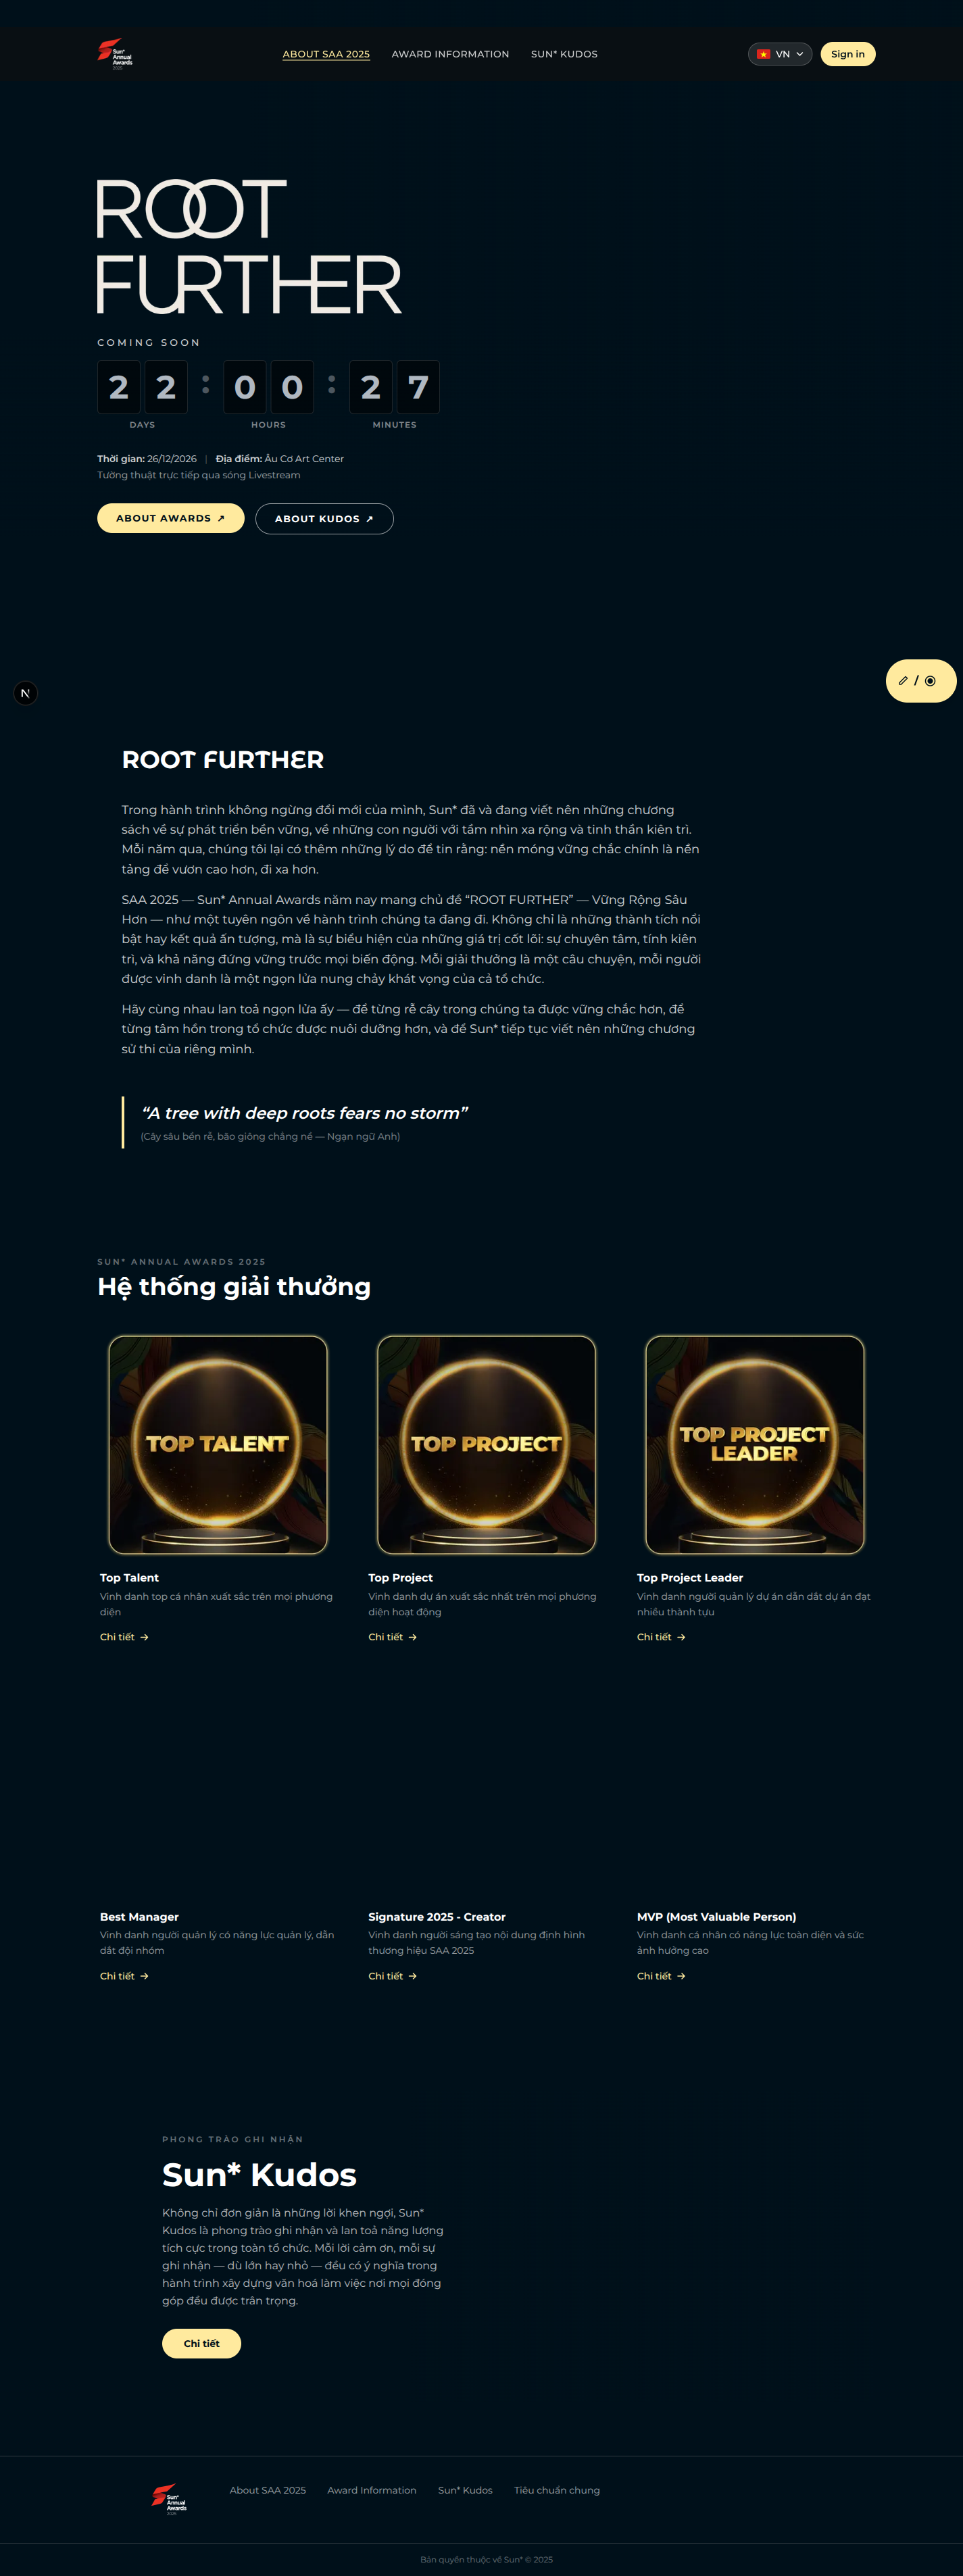
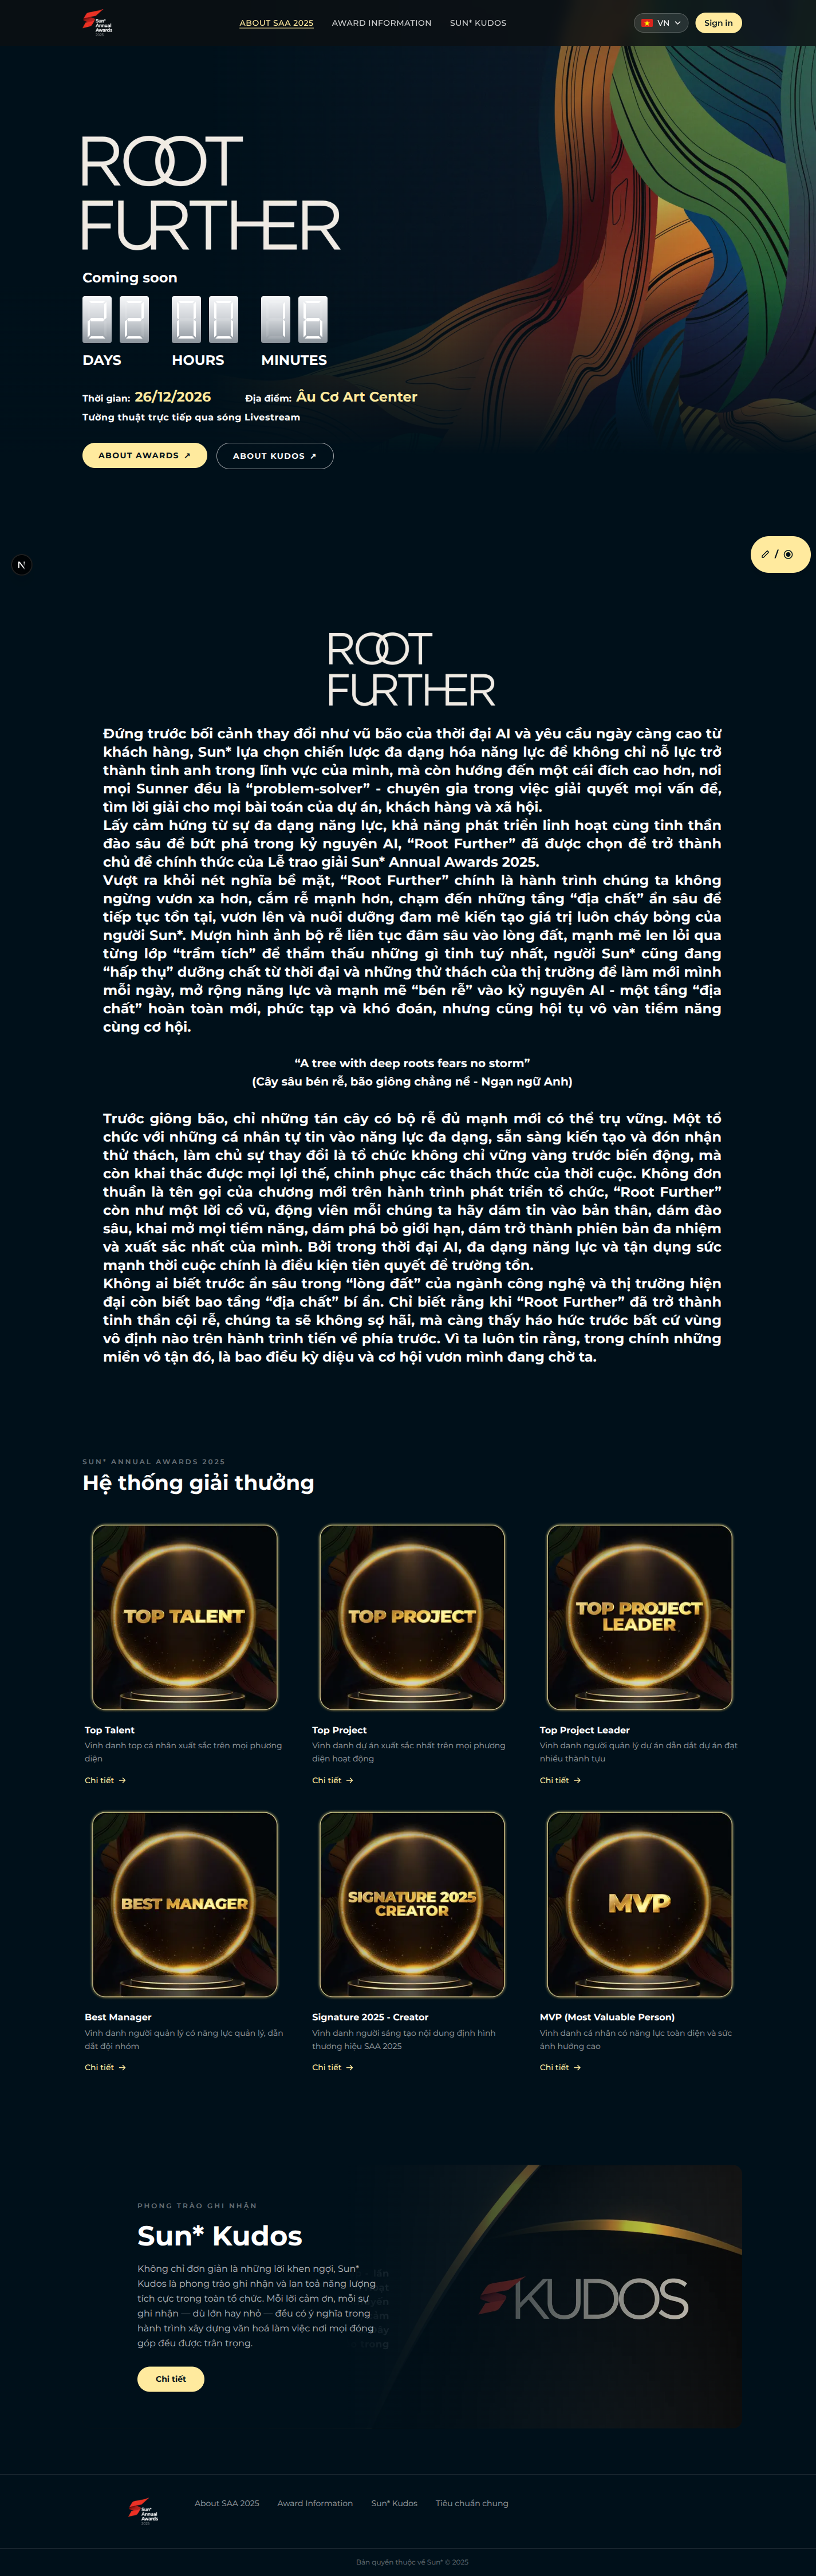
fix(home): align countdown, event info, and explainer with Figma styles
Previous implementation diverged from the Figma design in several places.
Pull the authoritative styles via MoMorph and rebuild each section.

Countdown (countdown-tile.tsx):
- Replace the dark `bg-black/50` box with a silver metallic gradient
  matching the design (white → #C9CDD2 → #8B939B vertical gradient).
- Replace text-rendered digits with inline SVG 7-segment LCD digits
  (segment map for 0-9, 51×82 viewBox per tile per Figma spec).
- Drop the `:` separator between tiles — design uses pure 40px gap.

Labels and "Coming soon" (hero-countdown.tsx):
- "Coming soon" label: text-sm faded → 24px Montserrat 700 white,
  mixed case (was uppercase + tracking-widest faded).
- DAYS / HOURS / MINUTES labels: text-xs faded → 24px Montserrat 700
  white (no opacity reduction).

Event info row (hero-countdown.tsx):
- Switch from single-line "Thời gian: 26/12/2026 | Địa điểm: ..." to
  the Figma's row-of-two-groups layout.
- Label "Thời gian:" / "Địa điểm:" → 16px Montserrat 700 white
  with 0.15px letter-spacing.
- Value "26/12/2026" / "Âu Cơ Art Center" → 24px Montserrat 700 in
  the cream accent #FFEA9E (was white). 60px gap between the two
  groups, matching Figma `Frame 522`.

ROOT FURTHER explainer (root-further-explainer.tsx):
- Replace the `<h2>` text heading with the real ROOT FURTHER image
  asset centered at the top of the card (per Figma `Group 434`).
- Replace placeholder paragraphs with the verbatim Vietnamese copy
[…]

diff --git a/app/page-home/countdown-tile.tsx b/app/page-home/countdown-tile.tsx
@@ -1,30 +1,68 @@
 interface CountdownTileProps {
-  value: string; // always 2 chars, zero-padded
+  value: string;
   label: string;
 }
 
-export default function CountdownTile({ value, label }: CountdownTileProps) {
-  const [d1, d2] = value.split("");
+const SEGMENT_MAP: Record<string, [boolean, boolean, boolean, boolean, boolean, boolean, boolean]> = {
+  "0": [true, true, true, true, true, true, false],
+  "1": [false, true, true, false, false, false, false],
+  "2": [true, true, false, true, true, false, true],
+  "3": [true, true, true, true, false, false, true],
+  "4": [false, true, true, false, false, true, true],
+  "5": [true, false, true, true, false, true, true],
+  "6": [true, false, true, true, true, true, true],
+  "7": [true, true, true, false, false, false, false],
+  "8": [true, true, true, true, true, true, true],
+  "9": [true, true, true, true, false, true, true],
+};
+
+function LcdDigit({ digit }: { digit: string }) {
+  const [a, b, c, d, e, f, g] = SEGMENT_MAP[digit] ?? SEGMENT_MAP["0"];
+  const ON = "#FFFFFF";
+  const OFF = "rgba(255,255,255,0.10)";
 
   return (
-    <div className="flex flex-col items-center gap-2">
-      <div className="flex gap-1.5">
-        {[d1, d2].map((digit, idx) => (
-          <div
-            key={idx}
-            className="flex items-center justify-center w-14 h-16 md:w-16 md:h-20 rounded-md"
-            style={{ background: "rgba(0,0,0,0.5)", border: "1px solid rgba(255,255,255,0.12)" }}
-          >
-            <span
-              className="text-4xl md:text-5xl font-bold tabular-nums leading-none"
-              style={{ color: "#B0B8C1", fontFamily: "var(--font-montserrat), monospace" }}
-            >
-              {digit ?? "0"}
-            </span>
-          </div>
-        ))}
+    <svg viewBox="0 0 51 82" xmlns="http://www.w3.org/2000/svg" aria-hidden="true" className="block h-full w-full">
+      <defs>
+        <linearGradient id="lcdBg" x1="0" y1="0" x2="0" y2="1">
+          <stop offset="0%" stopColor="#F7F8FA" />
+          <stop offset="55%" stopColor="#C9CDD2" />
+          <stop offset="100%" stopColor="#8B939B" />
+        </linearGradient>
+      </defs>
+      <rect x="0" y="0" width="51" height="82" rx="4" fill="url(#lcdBg)" />
+      {/* segment a — top horizontal */}
+      <polygon points="11,8 40,8 36,12 15,12" fill={a ? ON : OFF} />
+      {/* segment b — top right vertical */}
+      <polygon points="42,10 42,38 38,41 38,14" fill={b ? ON : OFF} />
+      {/* segment c — bottom right vertical */}
+      <polygon points="42,44 42,72 38,68 38,41" fill={c ? ON : OFF} />
+      {/* segment d — bottom horizontal */}
+      <polygon points="11,74 40,74 36,70 15,70" fill={d ? ON : OFF} />
+      {/* segment e — bottom left vertical */}
+      <polygon points="9,44 9,72 13,68 13,41" fill={e ? ON : OFF} />
+      {/* segment f — top left vertical */}
+      <polygon points="9,10 9,38 13,41 13,14" fill={f ? ON : OFF} />
+      {/* segment g — middle horizontal */}
+      <polygon points="13,41 15,38 36,38 38,41 36,44 15,44" fill={g ? ON : OFF} />
+    </svg>
+  );
+}
+
+export default function CountdownTile({ value, label }: CountdownTileProps) {
+  const [d1, d2] = value.padStart(2, "0").split("");
+
+  return (
+    <div className="flex flex-col items-start gap-[14px]">
+      <div className="flex items-center gap-[14px]">
+        <div className="h-[82px] w-[51px]">
+          <LcdDigit digit={d1 ?? "0"} />
+        </div>
+        <div className="h-[82px] w-[51px]">
+          <LcdDigit digit={d2 ?? "0"} />
+        </div>
       </div>
-      <span className="text-xs font-semibold uppercase tracking-widest text-white/50">
+      <span className="text-2xl font-bold leading-[32px] text-white">
         {label}
       </span>
     </div>

diff --git a/app/page-home/root-further-explainer.tsx b/app/page-home/root-further-explainer.tsx
@@ -1,45 +1,28 @@
+import Image from "next/image";
+
 export default function RootFurtherExplainer() {
   return (
-    <section className="w-full bg-[#00101A] py-20 px-4 md:px-18 lg:px-36">
-      <div className="max-w-4xl flex flex-col gap-10 lg:pl-9">
-        {/* Section heading with ROOT FURTHER image mark */}
-        <h2
-          className="text-3xl md:text-4xl font-bold uppercase"
-          style={{ fontFamily: "var(--font-montserrat-alt), var(--font-montserrat), sans-serif" }}
-        >
-          ROOT FURTHER
-        </h2>
+    <section className="w-full bg-[#00101A] py-20 px-4 md:px-18 lg:px-[180px]">
+      <div className="mx-auto flex max-w-[1152px] flex-col items-center gap-8">
+        <Image
+          src="/root-further.png"
+          alt="ROOT FURTHER"
+          width={290}
+          height={134}
+          className="h-auto w-[220px] md:w-[290px]"
+        />
 
-        {/* Long Vietnamese explainer paragraph */}
-        {/* TODO: Verify exact body text against Figma design strip 2 — text below adapted from design image */}
-        <div className="text-base md:text-lg text-white/80 leading-relaxed space-y-4">
-          <p>
-            Trong hành trình không ngừng đổi mới của mình, Sun* đã và đang viết nên những chương sách về sự phát
-            triển bền vững, về những con người với tầm nhìn xa rộng và tinh thần kiên trì. Mỗi năm qua, chúng tôi
-            lại có thêm những lý do để tin rằng: nền móng vững chắc chính là nền tảng để vươn cao hơn, đi xa hơn.
-          </p>
-          <p>
-            SAA 2025 — Sun* Annual Awards năm nay mang chủ đề &ldquo;ROOT FURTHER&rdquo; — Vững Rộng Sâu Hơn — như
-            một tuyên ngôn về hành trình chúng ta đang đi. Không chỉ là những thành tích nổi bật hay kết quả ấn
-            tượng, mà là sự biểu hiện của những giá trị cốt lõi: sự chuyên tâm, tính kiên trì, và khả năng đứng
-            vững trước mọi biến động. Mỗi giải thưởng là một câu chuyện, mỗi người được vinh danh là một ngọn lửa
-            nung chảy khát vọng của cả tổ chức.
-          </p>
-          <p>
-            Hãy cùng nhau lan toả ngọn lửa ấy — để từng rễ cây trong chúng ta được vững chắc hơn, để từng tâm hồn
-            trong tổ chức được nuôi dưỡng hơn, và để Sun* tiếp tục viết nên những chương sử thi của riêng mình.
-          </p>
-        </div>
+        <p className="w-full text-justify text-base md:text-2xl font-bold leading-[32px] text-white whitespace-pre-line">
+          {"Đứng trước bối cảnh thay đổi như vũ bão của thời đại AI và yêu cầu ngày càng cao từ khách hàng, Sun* lựa chọn chiến lược đa dạng hóa năng lực để không chỉ nỗ lực trở thành tinh anh trong lĩnh vực của mình, mà còn hướng đến một cái đích cao hơn, nơi mọi Sunner đều là “problem-solver” - chuyên gia trong việc giải quyết mọi vấn đề, tìm lời giải cho mọi bài toán của dự án, khách hàng và xã hội.\nLấy cảm hứng từ sự đa dạng năng lực, khả năng phát triển linh hoạt cùng tinh thần đào sâu để bứt phá trong kỷ nguyên AI, “Root Further” đã được chọn để trở thành chủ đề chính thức của Lễ trao giải Sun* Annual Awards 2025.\nVượt ra khỏi nét nghĩa bề mặt, “Root Further” chính là hành trình chúng ta không ngừng vươn xa hơn, cắm rễ mạnh hơn, chạm đến những tầng “địa chất” ẩn sâu để tiếp tục tồn tại, vươn lên và nuôi dưỡng đam mê kiến tạo giá trị luôn cháy bỏng của người Sun*. Mượn hình ảnh bộ rễ liên tục đâm sâu vào lòng đất, mạnh mẽ len lỏi qua từng lớp “trầm tích” để thẩm thấu những gì tinh tuý nhất, người Sun* cũng đang “hấp thụ” dưỡng chất từ thời đại và những thử thách của thị trường để làm mới mình mỗi ngày, mở rộng năng lực và mạnh mẽ “bén rễ” vào kỷ nguyên AI - một tầng “địa chất” hoàn toàn mới, phức tạp và khó đoán, nhưng cũng hội tụ vô vàn tiềm năng cùng cơ hội."}
+        </p>
 
-        {/* Pull quote */}
-        <blockquote className="border-l-4 border-[#FFEA9E] pl-6 py-2 mt-4">
-          <p className="text-lg md:text-2xl font-semibold italic text-white leading-snug">
-            &ldquo;A tree with deep roots fears no storm&rdquo;
-          </p>
-          <p className="mt-2 text-sm text-white/50">
-            (Cây sâu bền rễ, bão giông chẳng nề — Ngạn ngữ Anh)
-          </p>
-        </blockquote>
+        <p className="w-full text-center text-xl font-bold leading-[32px] text-white whitespace-pre-line">
+          {" “A tree with deep roots fears no storm”\n (Cây sâu bén rễ, bão giông chẳng nề - Ngạn ngữ Anh)"}
+        </p>
+
+        <p className="w-full text-justify text-base md:text-2xl font-bold leading-[32px] text-white whitespace-pre-line">
+          {"Trước giông bão, chỉ những tán cây có bộ rễ đủ mạnh mới có thể trụ vững. Một tổ chức với những cá nhân tự tin vào năng lực đa dạng, sẵn sàng kiến tạo và đón nhận thử thách, làm chủ sự thay đổi là tổ chức không chỉ vững vàng trước biến động, mà còn khai thác được mọi lợi thế, chinh phục các thách thức của thời cuộc. Không đơn thuần là tên gọi của chương mới trên hành trình phát triển tổ chức, “Root Further” còn như một lời cổ vũ, động viên mỗi chúng ta hãy dám tin vào bản thân, dám đào sâu, khai mở mọi tiềm năng, dám phá bỏ giới hạn, dám trở thành phiên bản đa nhiệm và xuất sắc nhất của mình. Bởi trong thời đại AI, đa dạng năng lực và tận dụng sức mạnh thời cuộc chính là điều kiện tiên quyết để trường tồn.\nKhông ai biết trước ẩn sâu trong “lòng đất” của ngành công nghệ và thị trường hiện đại còn biết bao tầng “địa chất” bí ẩn. Chỉ biết rằng khi “Root Further” đã trở thành tinh thần cội rễ, chúng ta sẽ không sợ hãi, mà càng thấy háo hức trước bất cứ vùng vô định nào trên hành trình tiến về phía trước. Vì ta luôn tin rằng, trong chính những miền vô tận đó, là bao điều kỳ diệu và cơ hội vươn mình đang chờ ta."}
+        </p>
       </div>
     </section>
   );

diff --git a/app/page-home/hero-countdown.tsx b/app/page-home/hero-countdown.tsx
@@ -66,7 +66,6 @@ export default function HeroCountdown({ eventStartAt }: HeroCountdownProps) {
 
   return (
     <section className="relative min-h-screen overflow-hidden">
-      {/* Background key visual — artwork on the right side */}
       <div className="absolute inset-0 z-0">
         <Image
           src="/homepage-keyvisual.png"
@@ -76,7 +75,6 @@ export default function HeroCountdown({ eventStartAt }: HeroCountdownProps) {
           sizes="100vw"
           className="object-cover object-right"
         />
-        {/* Left fade so content remains legible against the artwork */}
         <div
           className="absolute inset-0"
           style={{
@@ -84,7 +82,6 @@ export default function HeroCountdown({ eventStartAt }: HeroCountdownProps) {
               "linear-gradient(90deg, #00101A 0%, #00101A 25.41%, rgba(0, 16, 26, 0) 100%)",
           }}
         />
-        {/* Bottom fade into the next section */}
         <div
           className="absolute inset-0"
           style={{
@@ -94,7 +91,6 @@ export default function HeroCountdown({ eventStartAt }: HeroCountdownProps) {
         />
       </div>
 
-      {/* Content — left aligned, sits over the dark side */}
       <div className="relative z-10 flex flex-col min-h-screen justify-center px-6 md:px-18 lg:px-36 pt-32 pb-24 gap-8">
         <Image
           src="/root-further.png"
@@ -107,31 +103,38 @@ export default function HeroCountdown({ eventStartAt }: HeroCountdownProps) {
 
         <div className="flex flex-col gap-4">
           {showComingSoon && (
-            <p className="text-sm font-medium uppercase tracking-[0.3em] text-white/80">
+            <p className="text-2xl font-bold leading-[32px] text-white">
               Coming soon
             </p>
           )}
 
-          <div className="flex items-start gap-3 md:gap-5">
+          <div className="flex items-start gap-10">
             <CountdownTile value={countdown.days} label="DAYS" />
-            <span className="text-4xl md:text-5xl font-bold text-white/30 mt-2 leading-none select-none">
-              :
-            </span>
             <CountdownTile value={countdown.hours} label="HOURS" />
-            <span className="text-4xl md:text-5xl font-bold text-white/30 mt-2 leading-none select-none">
-              :
-            </span>
             <CountdownTile value={countdown.minutes} label="MINUTES" />
           </div>
         </div>
 
-        <div className="flex flex-col gap-1">
-          <p className="text-sm text-white/80">
-            <span className="font-semibold">Thời gian:</span> {eventDate}
-            <span className="mx-3 text-white/30">|</span>
-            <span className="font-semibold">Địa điểm:</span> Âu Cơ Art Center
-          </p>
-          <p className="text-sm text-white/60">
+        <div className="flex flex-col gap-2">
+          <div className="flex flex-wrap items-center gap-x-[60px] gap-y-2">
+            <p className="flex items-baseline gap-2">
+              <span className="text-base font-bold leading-6 tracking-[0.15px] text-white">
+                Thời gian:
+              </span>
+              <span className="text-2xl font-bold leading-[32px] text-[#FFEA9E]">
+                {eventDate}
+              </span>
+            </p>
+            <p className="flex items-baseline gap-2">
+              <span className="text-base font-bold leading-6 tracking-[0.15px] text-white">
+                Địa điểm:
+              </span>
+              <span className="text-2xl font-bold leading-[32px] text-[#FFEA9E]">
+                Âu Cơ Art Center
+              </span>
+            </p>
+          </div>
+          <p className="text-base font-bold leading-6 tracking-[0.5px] text-white">
             Tường thuật trực tiếp qua sóng Livestream
           </p>
         </div>